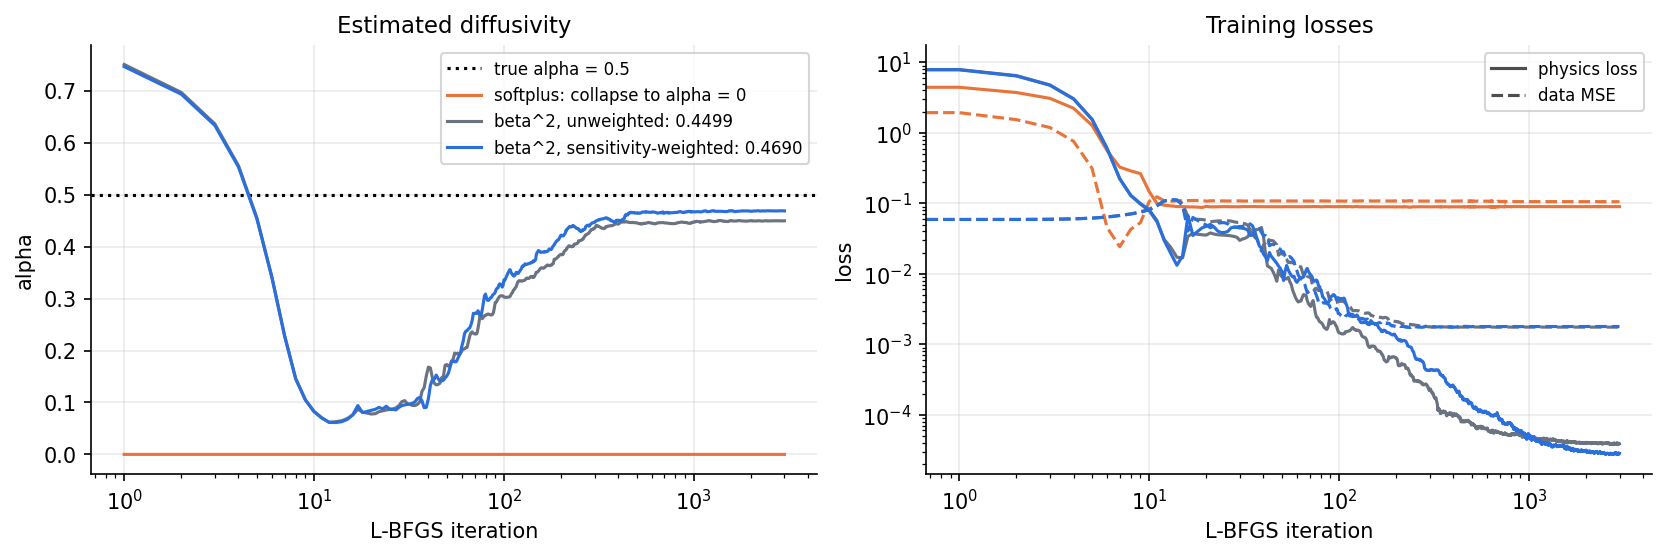
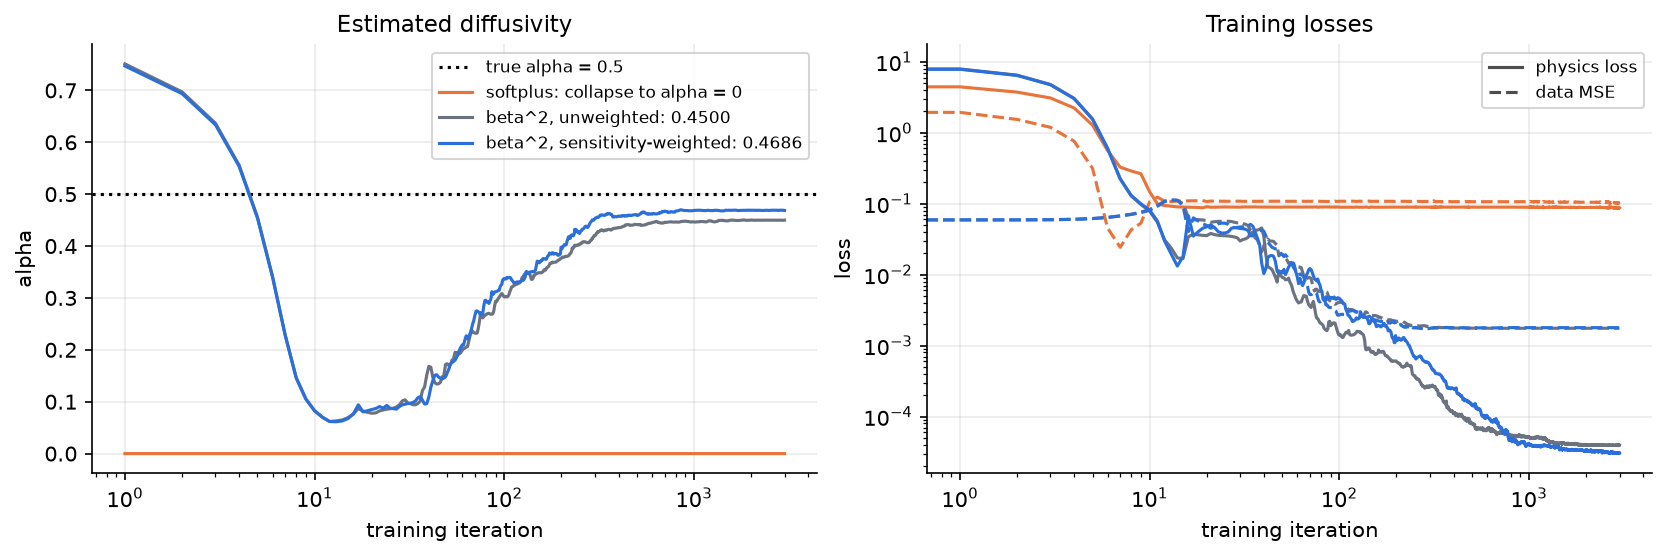
Add units, generic axis labels, and Forward problem explanation/limitations
- Units added: x (m) on the diffusion GIF, forward_field.png (x/t),
  and forward_training.gif; t = ... s in the forward GIF legend.
- "L-BFGS iteration" -> "training iteration" on all plot axes, to stay
  optimizer-agnostic; forward_loss.png ylabel -> "loss (physics)".
- Removed the redundant figure suptitle from training_gif (README
  caption already covers it); dropped the now-unused title parameter
  and its only call site.
- README: new intro sentence + "Limitations" paragraph in Forward
  problem (little value on a problem with a known exact solution;
  real value is for problems without one, though classical solvers
  are already fast there too). Fig 1 caption clarifies the loss is
  physics-residual-only (no data) and spells out "relative error (in
  L2 norm)".

diff --git a/pinn_heat/animate.py b/pinn_heat/animate.py
@@ -30,7 +30,7 @@ def diffusion_bar_gif(path, alphas, L=1.0, t_max=1.5, n_x=400, n_frames_per_alph
     im = ax.imshow(T0, aspect="auto", cmap=cmap, vmin=0, vmax=1, extent=[0, L, 0, 1])
     ax.set_yticks([])
     ax.set_xticks([0, L / 2, L], labels=["0", "L/2", "L"])
-    ax.set_xlabel("x")
+    ax.set_xlabel("x (m)")
     fig.colorbar(im, ax=ax, label="T(x, t)  [dimensionless]")
 
     # All three lines share ax.transAxes so they stay centred on the strip, not the whole figure.
@@ -66,7 +66,7 @@ class ProfileRecorder:
         self.profiles.append(T)
 
 
-def training_gif(path, rec, alpha_true, history, curve="loss", obs=None, title="", fps=10, hold=20):
+def training_gif(path, rec, alpha_true, history, curve="loss", obs=None, fps=10, hold=20):
     """Left: PINN profiles (solid) vs exact solution (dashed) [+ observations].
     Right: training curve (loss, or alpha against its true value).
     """
@@ -75,17 +75,16 @@ def training_gif(path, rec, alpha_true, history, curve="loss", obs=None, title="
 
     fig, (ax1, ax2) = plt.subplots(1, 2, figsize=(10, 3.8), gridspec_kw={"width_ratios": [1.25, 1]},
                                    constrained_layout=True)
-    fig.suptitle(title, fontsize=11)
 
     lines = []
     for k, (tk, c) in enumerate(zip(rec.times, colors)):
         ax1.plot(rec.x, T_exact[k], ls="--", lw=1.2, color="0.35")
-        lines.append(ax1.plot(rec.x, rec.profiles[0][k], color=c, lw=2.2, label=f"t = {tk:g}")[0])
+        lines.append(ax1.plot(rec.x, rec.profiles[0][k], color=c, lw=2.2, label=f"t = {tk:g} s")[0])
     if obs is not None:
         ax1.scatter(obs["x"], obs["T_obs"], c=obs["t"], cmap="viridis", vmin=0, vmax=rec.times.max() / 0.9,
                     s=22, edgecolors="black", linewidths=0.5, zorder=5, label="noisy data")
     ax1.plot([], [], ls="--", color="0.35", label="exact")
-    ax1.set(xlabel="x", ylabel="T(x, t)", ylim=(-0.15, 1.15), title="Temperature profiles")
+    ax1.set(xlabel="x (m)", ylabel="T(x, t)", ylim=(-0.15, 1.15), title="Temperature profiles")
     ax1.legend(fontsize=7.5, loc="upper right", ncol=2)
 
     its = np.arange(1, len(history[curve]) + 1)
@@ -103,7 +102,7 @@ def training_gif(path, rec, alpha_true, history, curve="loss", obs=None, title="
     else:
         ax2.set(ylabel="loss", title="Training loss")
         ax2.set_ylim(y.min() / 3, y.max() * 3)
-    ax2.set_xlabel("L-BFGS iteration")
+    ax2.set_xlabel("training iteration")
     label = ax2.text(0.03, 0.05, "", transform=ax2.transAxes, fontsize=9,
                      bbox=dict(boxstyle="round", fc="white", ec="0.8"))
 
@@ -161,7 +160,7 @@ def inverse_comparison_gif(path, rec, runs, alpha_true, obs, title="", fps=10, h
         lp = ax3.plot([], [], color=r["color"], lw=2)[0]
         ld = ax3.plot([], [], color=r["color"], lw=1.5, ls="--")[0]
         traces.append((h, a, lp, ld))
-    ax2.set(xscale="log", xlim=(1, n_it * 1.2), ylim=(-0.03, 1.05), xlabel="L-BFGS iteration", ylabel="alpha",
+    ax2.set(xscale="log", xlim=(1, n_it * 1.2), ylim=(-0.03, 1.05), xlabel="training iteration", ylabel="alpha",
             title="Estimated diffusivity")
     ax2.legend(fontsize=7.5, loc="upper right")
     ax3.plot([], [], color="0.3", lw=2, label="physics loss (PDE residual)")
@@ -169,7 +168,7 @@ def inverse_comparison_gif(path, rec, runs, alpha_true, obs, title="", fps=10, h
     all_l = np.concatenate([np.r_[r["hist"]["loss_phys"], r["hist"]["loss_data"]] for r in runs])
     all_l = all_l[np.isfinite(all_l) & (all_l > 0)]
     ax3.set(xscale="log", yscale="log", xlim=(1, n_it * 1.2), ylim=(all_l.min() / 3, all_l.max() * 3),
-            xlabel="L-BFGS iteration", ylabel="loss", title="Training losses")
+            xlabel="training iteration", ylabel="loss", title="Training losses")
     ax3.legend(fontsize=7.5, loc="lower left")
     label = ax2.text(0.03, 0.05, "", transform=ax2.transAxes, fontsize=9,
                      bbox=dict(boxstyle="round", fc="white", ec="0.8"))

diff --git a/scripts/inverse.py b/scripts/inverse.py
@@ -81,11 +81,11 @@ for r in runs:
     ax1.plot(np.arange(1, len(r["hist"]["alpha"]) + 1), r["hist"]["alpha"], color=r["color"], label=r["label"])
     ax2.loglog(r["hist"]["loss_phys"], color=r["color"])
     ax2.loglog(r["hist"]["loss_data"], color=r["color"], ls="--")
-ax1.set(xscale="log", xlabel="L-BFGS iteration", ylabel="alpha", title="Estimated diffusivity")
+ax1.set(xscale="log", xlabel="training iteration", ylabel="alpha", title="Estimated diffusivity")
 ax1.legend(fontsize=8)
 ax2.plot([], [], color="0.3", label="physics loss")
 ax2.plot([], [], color="0.3", ls="--", label="data MSE")
-ax2.set(xlabel="L-BFGS iteration", ylabel="loss", title="Training losses")
+ax2.set(xlabel="training iteration", ylabel="loss", title="Training losses")
 ax2.legend(fontsize=8)
 fig.savefig(out / "inverse_alpha_losses.png")
 

diff --git a/scripts/forward.py b/scripts/forward.py
@@ -61,8 +61,7 @@ fig.savefig(out / "forward_field.png")
 
 fig, ax = plt.subplots(figsize=(5, 3.2))
 ax.semilogy(hist["loss"], color=BLUE)
-ax.set(xlabel="L-BFGS iteration", ylabel="physics loss", title="Forward problem - training")
+ax.set(xlabel="training iteration", ylabel="loss (physics)", title="Forward problem - training")
 fig.savefig(out / "forward_loss.png")
-training_gif(out / "forward_training.gif", rec, args.alpha, hist, curve="loss",
-             title=f"Forward problem: PINN solving the heat equation (alpha = {args.alpha}, no data)")
+training_gif(out / "forward_training.gif", rec, args.alpha, hist, curve="loss")
 print(f"Figures saved to {out}")

diff --git a/pinn_heat/plotting.py b/pinn_heat/plotting.py
@@ -31,7 +31,7 @@ def field_panels(t, x, T_pred, T_true, obs=None, title_pred="PINN prediction"):
     for ax, (Z, title, cmap) in zip(axes, panels):
         kw = {"vmin": vmin, "vmax": vmax} if cmap == "viridis" else {}
         im = ax.imshow(Z.T, origin="lower", extent=extent, aspect="auto", cmap=cmap, **kw)
-        ax.set(title=title, xlabel="t", ylabel="x")
+        ax.set(title=title, xlabel="t (s)", ylabel="x (m)")
         ax.grid(False)
         fig.colorbar(im, ax=ax, format="%.0e" if cmap == "magma" else None)
     if obs is not None:

diff --git a/README.md b/README.md
@@ -45,11 +45,15 @@ The exact solution is 𝑻(𝒙,𝒕) = 𝒔𝒊𝒏(𝝅𝒙/𝑳) × 𝒆<sup>
 
 ## Forward problem
 
+Here, $\alpha$ is known and there is no data at all: the goal is simply to check that the PINN can reconstruct $T(x,t)$ from the physics alone, by minimizing the PDE residual, before moving on to the harder inverse problem.
+
 <p align="center">
   <img src="figures/forward_training.gif" width="95%">
 </p>
 
-**Fig 1:** *Forward problem.* With $\alpha = 0.18$ known and **no data at all**, the PINN finds the solution of the heat equation by minimizing the PDE residual alone. Solid lines are PINN profiles at fixed times and dashed lines the exact solution. After 3000 L-BFGS iterations (~30 s on a laptop CPU), the relative $L^2$ error is **$6 \times 10^{-5}$**.
+**Fig 1:** *Forward problem.* With $\alpha = 0.18$ known and **no data at all**, the PINN finds the solution of the heat equation by minimizing the loss function. In this case, since no data are included in the training, the loss function is composed of the physics residual only. Solid lines are PINN profiles at fixed times and dashed lines the exact solution. After 3000 L-BFGS iterations (~30 s on a laptop CPU), the relative error (in L2 norm) between the trained solution and the exact solution is **$6 \times 10^{-5}$**.
+
+**Limitations.** Solving the forward problem here has little practical interest on its own: the exact solution is already known analytically, so a PINN reconstructing it brings nothing new. PINNs become genuinely useful for equations with no known exact solution — but even there, classical numerical solvers (finite difference, finite element) already solve most such PDEs very quickly. For now, PINNs offer no major advantage for a plain forward problem like this one; any future edge will likely come from making the training itself more efficient.
 
 ## Inverse problem
 
